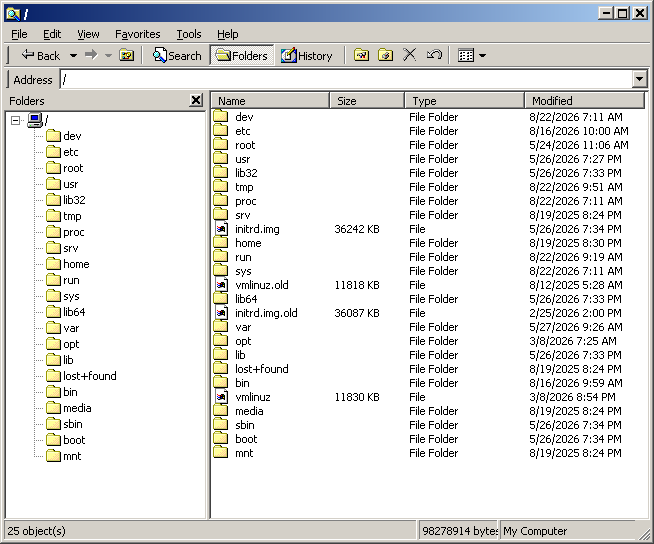
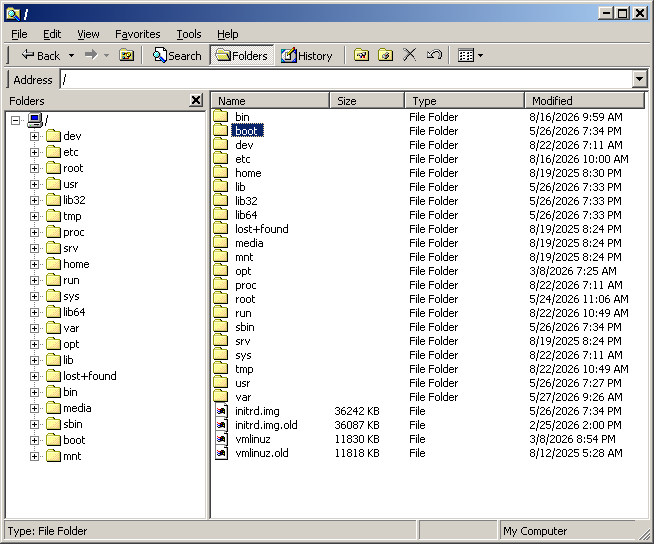
Refresh the explorer shot, and what is left against it

diff --git a/ROADMAP.md b/ROADMAP.md
@@ -352,18 +352,25 @@ What still differs, and why:
 - The **sort arrow** on the Name column. In win32 that is `HDF_SORTUP` on a
   header item reached through `LVM_GETHEADER`, and there is no header control
   to reach. Faking it with a message win32 does not have would cost more than
-  the arrow is worth.
+  the arrow is worth. The sorting itself works; only the mark is missing.
 - The **address bar** has no icon inside the combo box and no Go button beside
   it. The first wants an image-bearing combo; the second wants two children in
   one rebar band.
 - The **menu bar** is drawn by the frame. The real one is a rebar band with a
-  gripper, which is why the shot has a gripper to the left of File.
+  gripper, which is why the shot has a gripper to the left of File. Everything
+  below it therefore sits five pixels high of where the shot has it.
+- A toolbar has no **hot image list**. Windows 2000 gave a toolbar two sets of
+  images and swapped to the second under the pointer, which is why the Back
+  arrow turns blue when you hover it and is grey otherwise. Ours stays grey.
 - **Move To** and **Copy To** use the icon set's folders. The real ones come
   from the same toolbar strip as the arrows and are a different drawing of the
   same idea.
 - A **disabled toolbar button** draws its image unchanged; win32 greys it. The
   shot does not show this because the strip carried its own greyed images,
   which is what the example hands over.
+- The **drop-down divider** on a hot Back button is one pixel left of where
+  the real one has it: the arrow half measures thirteen there and eleven here,
+  and eleven is what puts the arrow itself in the right place.
 - The tree lists the **file system** rather than the shell namespace, so it
   starts at a directory instead of at Desktop, My Documents and My Computer.
 
